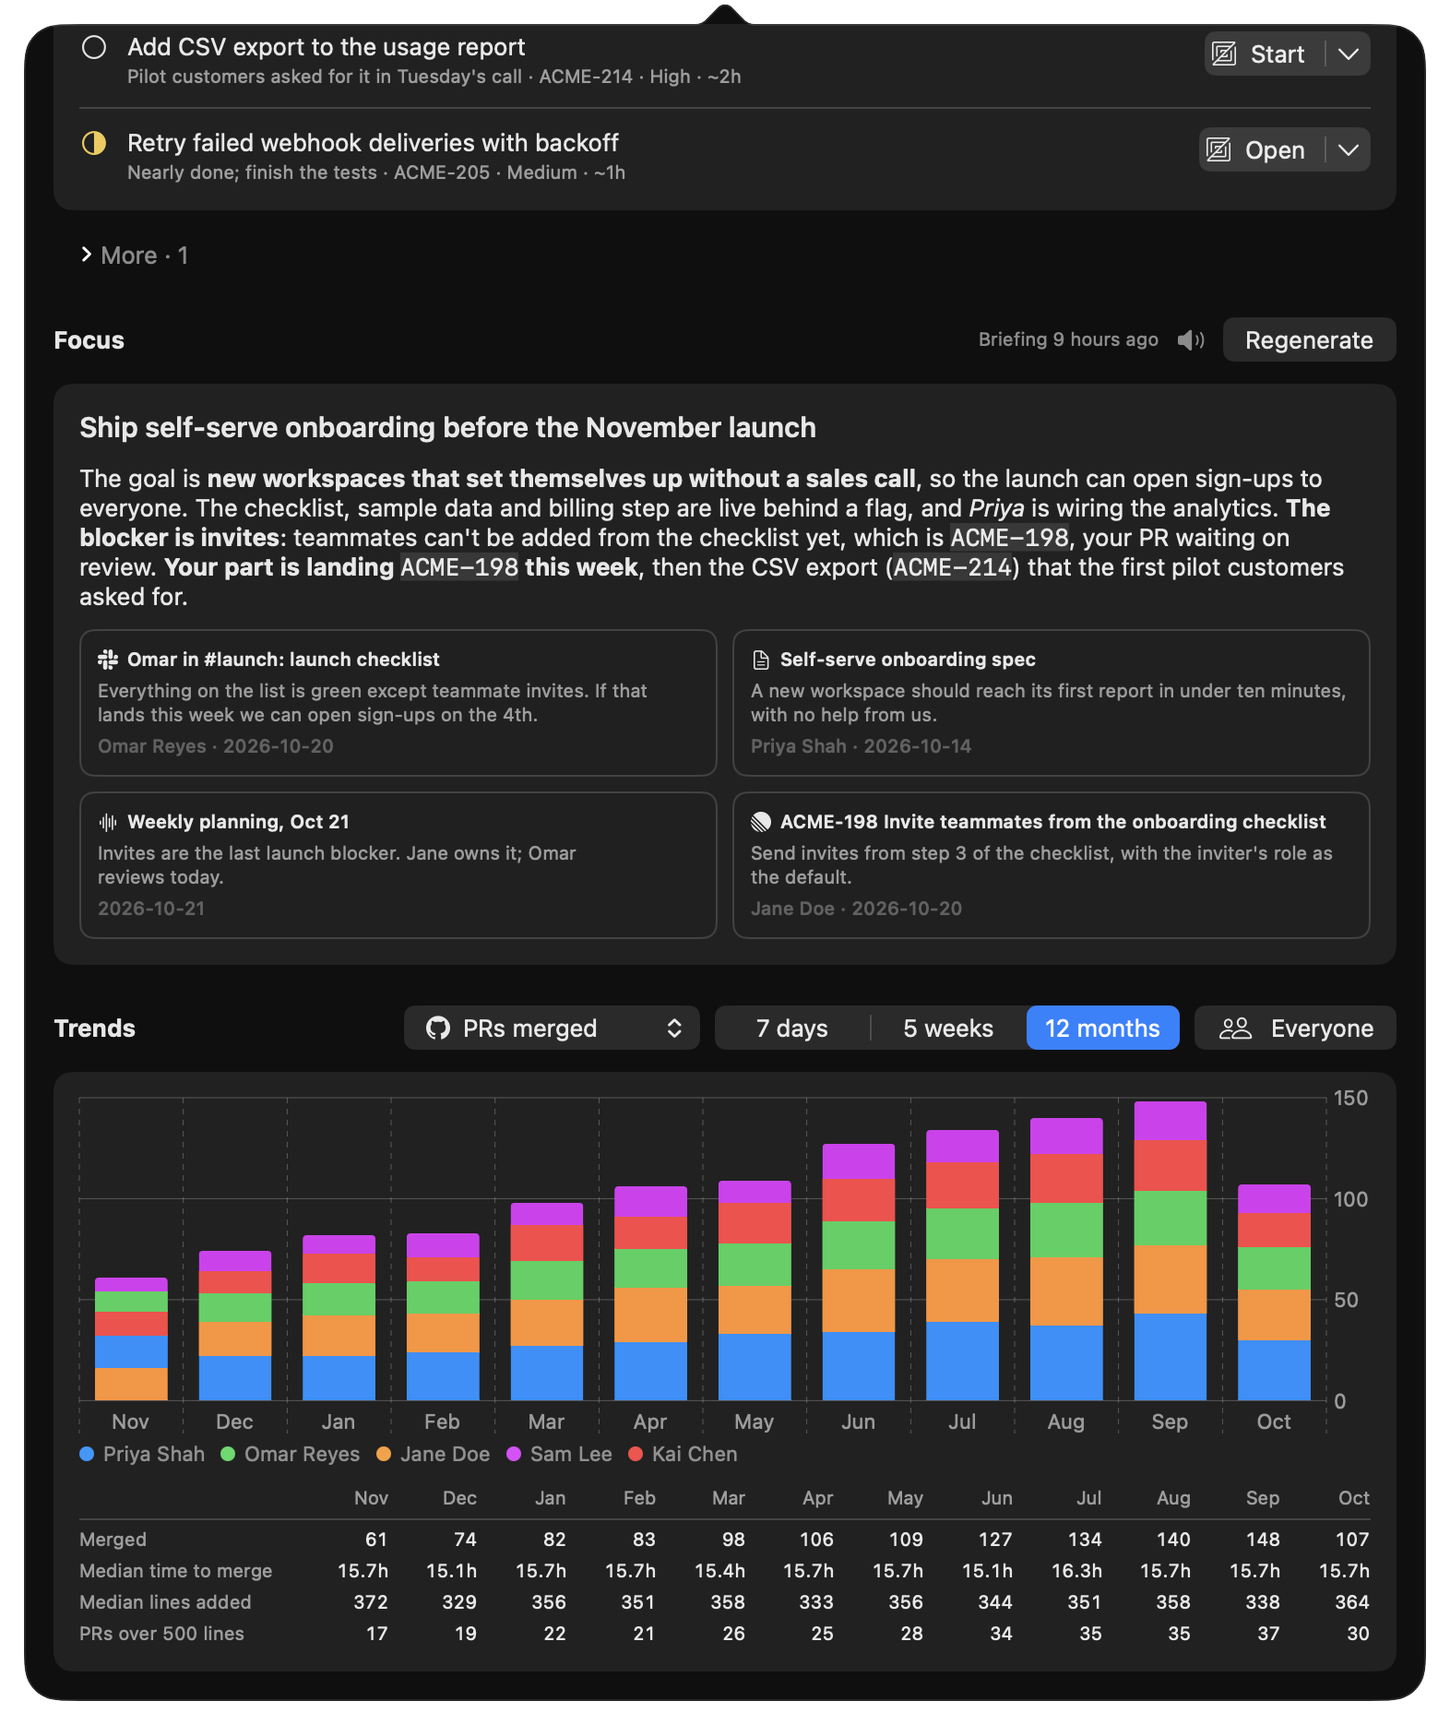
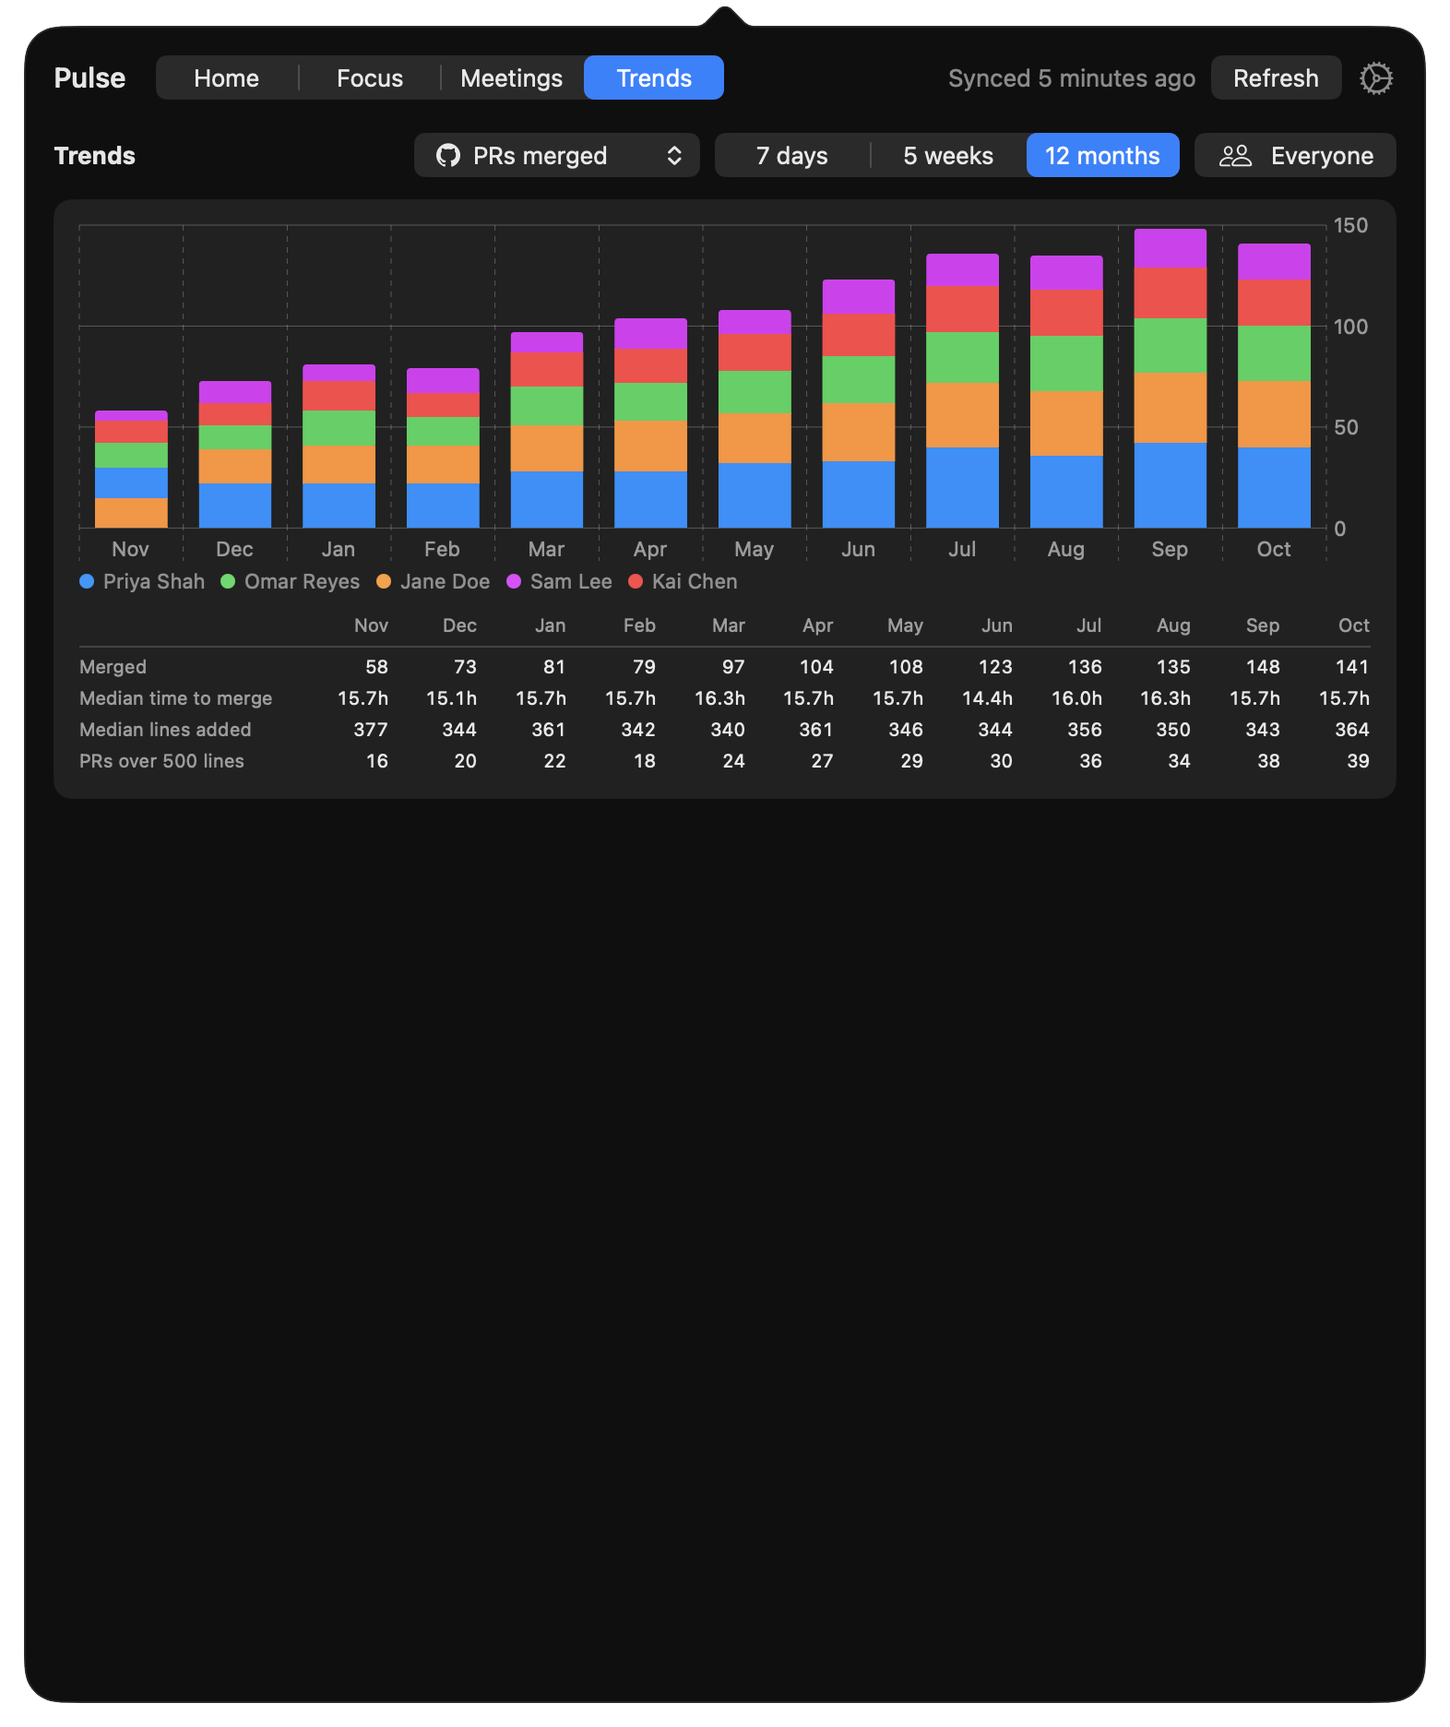
Split the main view into tabs with a Home dashboard (#60)
The popover had grown into one long scroll: Today, Focus with source cards, every meeting, then Trends. It now has Home, Focus, Meetings and Trends tabs under a fixed header.

Home shows the Today checklist, the focus headlines with read-aloud and Regenerate, the latest meeting with Stop/Start recording, and a one-line trends summary for the selected range and people. Each section title on Home opens its tab. Errors from sync, the briefing and meetings show under the header on every tab. The Meetings tab is hidden when recording is off and nothing is saved, as the section was. The chosen tab is kept while Pulse runs, and the morning briefing switches back to Home.

Closes #58

diff --git a/Sources/Pulse/Views.swift b/Sources/Pulse/Views.swift
@@ -10,6 +10,7 @@ struct ContentView: View {
     @ObservedObject private var voice = NaturalVoice.shared
     @State private var askVoice = false
     @ObservedObject private var updater = Updater.shared
+    @ObservedObject private var meetings = Meetings.shared
 
     var body: some View {
         Group {
@@ -24,77 +25,109 @@ struct ContentView: View {
     }
 
     private var main: some View {
-        ScrollView {
-            VStack(alignment: .leading, spacing: 12) {
-                header
-                if let error = store.lastError {
-                    Text(error).font(.caption).foregroundStyle(.red).textSelection(.enabled)
-                }
-                TodayView(store: store)
-                SectionHeader(title: "Focus") {
-                    if store.synthesizing {
-                        ProgressView().controlSize(.small)
-                        Text("Reading your sources…").font(.caption).foregroundStyle(.secondary)
-                    } else if let at = store.synthesizedAt {
-                        Text("Briefing \(at, format: .relative(presentation: .named))").font(.caption).foregroundStyle(.secondary)
-                    }
-                    if let focus = store.synthesis?.focus, !focus.isEmpty {
-                        let text = focus.map { "\($0.headline). \($0.summary)" }.joined(separator: "\n\n")
-                        if voice.state == .downloading && !voice.settingUp {
-                            HStack(spacing: 6) {
-                                ProgressView(value: voice.progress).progressViewStyle(.circular).controlSize(.small)
-                                Text("Downloading voice \(Int(voice.progress * 100))%").font(.caption).foregroundStyle(.secondary)
-                            }
-                        } else if voice.settingUp {
-                            HStack(spacing: 6) {
-                                ProgressView().controlSize(.small)
-                                Text("Setting up voice…").font(.caption).foregroundStyle(.secondary)
-                            }
-                        } else if speaker.preparing {
-                            ProgressView().controlSize(.small).help("Preparing speech")
-                        } else {
-                            Button {
-                                if !settings.naturalVoice && !settings.voiceAsked && voice.supported && !speaker.speaking {
-                                    askVoice = true
-                                } else {
-                                    speaker.toggle(text)
-                                }
-                            } label: {
-                                Image(systemName: speaker.speaking ? "stop.fill" : "speaker.wave.2.fill").font(.system(size: 13)).foregroundStyle(.secondary)
-                            }
-                            .buttonStyle(.plain)
-                            .help(speaker.speaking ? "Stop reading" : "Read the focus aloud")
-                            .popover(isPresented: $askVoice, arrowEdge: .bottom) { voicePrompt(text) }
-                        }
-                    }
-                    Button(store.synthesis == nil ? "Generate" : "Regenerate") { Task { await store.synthesize() } }
-                        .disabled(store.synthesizing)
-                }
-                PrioritiesView(store: store)
-                MeetingsView()
-                SectionHeader(title: "Trends") {
-                    Picker("", selection: $metric) {
-                        ForEach(TrendMetric.allCases.filter { $0 == .prs || store.hasLinearKey }, id: \.self) { m in
-                            Label { Text(m.rawValue) } icon: { Image(nsImage: m.brand.padded(size: 13, trailing: 5)) }.tag(m)
-                        }
-                    }
-                    .labelsHidden()
-                    .fixedSize()
-                    Picker("", selection: $store.range) {
-                        ForEach(TrendRange.allCases, id: \.self) { Text($0.rawValue).tag($0) }
-                    }
-                    .pickerStyle(.segmented)
-                    .labelsHidden()
-                    .fixedSize()
-                    PeoplePicker(store: store)
-                }
-                trends
+        VStack(alignment: .leading, spacing: 8) {
+            header
+            ForEach(Array([store.lastError, store.synthesisError, meetings.error].compactMap { $0 }.enumerated()), id: \.offset) { _, error in
+                Text(error).font(.caption).foregroundStyle(.red).textSelection(.enabled).lineLimit(4).help(error).padding(.horizontal, 16)
             }
-            .padding(16)
+            ScrollView {
+                VStack(alignment: .leading, spacing: 12) {
+                    switch store.page {
+                    case .home: home
+                    case .focus:
+                        focusHeader()
+                        PrioritiesView(store: store)
+                    case .meetings: MeetingsView()
+                    case .trends: trends
+                    }
+                }
+                .padding(.horizontal, 16)
+                .padding(.bottom, 16)
+            }
+            .id(store.page)
+            .overlayScrollers()
+        }
+        .padding(.top, 16)
+        .onChange(of: meetings.shown) { _, shown in
+            if !shown, store.page == .meetings { store.page = .home }
+        }
+    }
+
+    @ViewBuilder private var home: some View {
+        TodayView(store: store)
+        focusHeader { store.page = .focus }
+        PrioritiesView(store: store, headlines: true)
+        MeetingsView(limit: 1) { store.page = .meetings }
+        SectionHeader(title: "Trends", open: { store.page = .trends }) {
+            Text("Last \(store.range.rawValue): \(trendsSummary)").font(.caption).foregroundStyle(.secondary)
+        }
+    }
+
+    private var trendsSummary: String {
+        let prs = store.trends.prs.filter { store.includes($0.person) }.count
+        let tickets = store.trends.completed.filter { store.includes($0.person) }.map(\.n).reduce(0, +)
+        return "\(prs) PRs merged" + (store.hasLinearKey ? ", \(tickets) tickets closed" : "")
+    }
+
+    private func focusHeader(open: (() -> Void)? = nil) -> some View {
+        SectionHeader(title: "Focus", open: open) {
+            if store.synthesizing {
+                ProgressView().controlSize(.small)
+                Text("Reading your sources…").font(.caption).foregroundStyle(.secondary)
+            } else if let at = store.synthesizedAt {
+                Text("Briefing \(at, format: .relative(presentation: .named))").font(.caption).foregroundStyle(.secondary)
+            }
+            if let focus = store.synthesis?.focus, !focus.isEmpty {
+                let text = focus.map { "\($0.headline). \($0.summary)" }.joined(separator: "\n\n")
+                if voice.state == .downloading && !voice.settingUp {
+                    HStack(spacing: 6) {
+                        ProgressView(value: voice.progress).progressViewStyle(.circular).controlSize(.small)
+                        Text("Downloading voice \(Int(voice.progress * 100))%").font(.caption).foregroundStyle(.secondary)
+                    }
+                } else if voice.settingUp {
+                    HStack(spacing: 6) {
+                        ProgressView().controlSize(.small)
+                        Text("Setting up voice…").font(.caption).foregroundStyle(.secondary)
+                    }
+                } else if speaker.preparing {
+                    ProgressView().controlSize(.small).help("Preparing speech")
+                } else {
+                    Button {
+                        if !settings.naturalVoice && !settings.voiceAsked && voice.supported && !speaker.speaking {
+                            askVoice = true
+                        } else {
+                            speaker.toggle(text)
+                        }
+                    } label: {
+                        Image(systemName: speaker.speaking ? "stop.fill" : "speaker.wave.2.fill").font(.system(size: 13)).foregroundStyle(.secondary)
+                    }
+                    .buttonStyle(.plain)
+                    .help(speaker.speaking ? "Stop reading" : "Read the focus aloud")
+                    .popover(isPresented: $askVoice, arrowEdge: .bottom) { voicePrompt(text) }
+                }
+            }
+            Button(store.synthesis == nil ? "Generate" : "Regenerate") { Task { await store.synthesize() } }
+                .disabled(store.synthesizing)
         }
     }
 
     @ViewBuilder private var trends: some View {
+        SectionHeader(title: "Trends") {
+            Picker("", selection: $metric) {
+                ForEach(TrendMetric.allCases.filter { $0 == .prs || store.hasLinearKey }, id: \.self) { m in
+                    Label { Text(m.rawValue) } icon: { Image(nsImage: m.brand.padded(size: 13, trailing: 5)) }.tag(m)
+                }
+            }
+            .labelsHidden()
+            .fixedSize()
+            Picker("", selection: $store.range) {
+                ForEach(TrendRange.allCases, id: \.self) { Text($0.rawValue).tag($0) }
+            }
+            .pickerStyle(.segmented)
+            .labelsHidden()
+            .fixedSize()
+            PeoplePicker(store: store)
+        }
         VStack(alignment: .leading, spacing: 10) {
             switch metric {
             case .prs:
@@ -150,6 +183,13 @@ struct ContentView: View {
     private var header: some View {
         HStack {
             Text("Pulse").font(.title3.bold())
+            Picker("", selection: $store.page) {
+                ForEach(PulseTab.allCases.filter { $0 != .meetings || meetings.shown }, id: \.self) { Text($0.rawValue).tag($0) }
+            }
+            .pickerStyle(.segmented)
+            .labelsHidden()
+            .fixedSize()
+            .padding(.leading, 8)
             Spacer()
             if store.syncing {
                 ProgressView().controlSize(.small)
@@ -172,7 +212,12 @@ struct ContentView: View {
             .buttonStyle(.plain)
             .help("Settings")
         }
+        .padding(.horizontal, 16)
     }
+}
+
+enum PulseTab: String, CaseIterable {
+    case home = "Home", focus = "Focus", meetings = "Meetings", trends = "Trends"
 }
 
 enum TrendMetric: String, CaseIterable {
@@ -183,11 +228,23 @@ enum TrendMetric: String, CaseIterable {
 
 struct SectionHeader<Accessory: View>: View {
     let title: String
+    var open: (() -> Void)?
     @ViewBuilder var accessory: Accessory
 
     var body: some View {
         HStack(spacing: 8) {
-            Text(title).font(.headline)
+            if let open {
+                Button(action: open) {
+                    HStack(spacing: 4) {
+                        Text(title).font(.headline)
+                        Image(systemName: "chevron.right").font(.caption.weight(.semibold)).foregroundStyle(.secondary)
+                    }
+                }
+                .buttonStyle(.plain)
+                .help("Open \(title)")
+            } else {
+                Text(title).font(.headline)
+            }
             Spacer()
             accessory
         }

diff --git a/Sources/Pulse/Priorities.swift b/Sources/Pulse/Priorities.swift
@@ -2,22 +2,22 @@ import SwiftUI
 
 struct PrioritiesView: View {
     @ObservedObject var store: Store
+    var headlines = false
 
     var body: some View {
-        if let error = store.synthesisError {
-            Text(error).font(.caption).foregroundStyle(.red).textSelection(.enabled).lineLimit(12)
-        }
         if let s = store.synthesis {
             ForEach(Array(s.focus.enumerated()), id: \.offset) { _, f in
                 VStack(alignment: .leading, spacing: 10) {
                     Text(markdown(f.headline)).font(.title3.weight(.semibold))
-                    Text(markdown(f.summary)).textSelection(.enabled).fixedSize(horizontal: false, vertical: true)
-                    let cards = f.sources.compactMap { id in s.sources.first { $0.id == id } }
-                    Grid(alignment: .topLeading, horizontalSpacing: 8, verticalSpacing: 8) {
-                        ForEach(Array(stride(from: 0, to: cards.count, by: 2)), id: \.self) { i in
-                            GridRow {
-                                SourceCard(source: cards[i])
-                                if i + 1 < cards.count { SourceCard(source: cards[i + 1]) } else { Color.clear.gridCellUnsizedAxes([.horizontal, .vertical]) }
+                    if !headlines {
+                        Text(markdown(f.summary)).textSelection(.enabled).fixedSize(horizontal: false, vertical: true)
+                        let cards = f.sources.compactMap { id in s.sources.first { $0.id == id } }
+                        Grid(alignment: .topLeading, horizontalSpacing: 8, verticalSpacing: 8) {
+                            ForEach(Array(stride(from: 0, to: cards.count, by: 2)), id: \.self) { i in
+                                GridRow {
+                                    SourceCard(source: cards[i])
+                                    if i + 1 < cards.count { SourceCard(source: cards[i + 1]) } else { Color.clear.gridCellUnsizedAxes([.horizontal, .vertical]) }
+                                }
                             }
                         }
                     }

diff --git a/Sources/Pulse/MeetingsView.swift b/Sources/Pulse/MeetingsView.swift
@@ -2,10 +2,12 @@ import SwiftUI
 
 struct MeetingsView: View {
     @ObservedObject private var meetings = Meetings.shared
+    var limit = Int.max
+    var open: (() -> Void)?
 
     var body: some View {
-        if settings.recordMeetings || !meetings.saved.isEmpty {
-            SectionHeader(title: "Meetings") {
+        if meetings.shown {
+            SectionHeader(title: "Meetings", open: open) {
                 if let recording = meetings.recording {
                     if meetings.noAudio {
                         Label("Recording \(recording.title), but some audio isn't coming in", systemImage: "exclamationmark.triangle.fill").font(.caption).foregroundStyle(.orange)
@@ -24,11 +26,10 @@ struct MeetingsView: View {
                     }
                 }
             }
-            if let error = meetings.error { Text(error).font(.caption).foregroundStyle(.red) }
             if meetings.saved.isEmpty {
                 Panel(title: "Meetings") { Text("No recorded meetings yet.").foregroundStyle(.secondary) }
             }
-            let days = Dictionary(grouping: meetings.saved) { Calendar.current.startOfDay(for: $0.start) }
+            let days = Dictionary(grouping: meetings.saved.prefix(limit)) { Calendar.current.startOfDay(for: $0.start) }
             ForEach(days.keys.sorted(by: >), id: \.self) { day in
                 Text(dayLabel(day)).font(.subheadline.weight(.semibold)).foregroundStyle(.secondary)
                 ForEach(days[day]!) { MeetingCard(meeting: $0) }

diff --git a/Sources/Pulse/Store.swift b/Sources/Pulse/Store.swift
@@ -12,6 +12,7 @@ final class Store: ObservableObject {
     @Published var me: String?
     @Published var today: [ActionItem] = []
     @Published var showingSettings = false
+    @Published var page = PulseTab.home
     private var todayFetched = Date.distantPast
     @Published var synthesis: Synthesis?
     @Published var synthesizedAt: Date?
@@ -280,7 +281,10 @@ final class Store: ObservableObject {
             while true {
                 await refresh()
                 Updater.shared.checkIfDue()
-                if synthesisDue { await synthesize() }
+                if synthesisDue {
+                    await synthesize()
+                    if synthesisError == nil { page = .home }
+                }
                 try? await Task.sleep(for: .seconds(3600))
             }
         }

diff --git a/Sources/Pulse/Meetings.swift b/Sources/Pulse/Meetings.swift
@@ -27,6 +27,7 @@ final class Meetings: ObservableObject {
     @Published private(set) var noAudio = false
     @Published private(set) var saved: [SavedMeeting] = []
     @Published var error: String?
+    var shown: Bool { settings.recordMeetings || !saved.isEmpty }
     private var capture: Capture?
     private var quietPolls = 0
     private var dismissed = false

diff --git a/README.md b/README.md
@@ -2,14 +2,16 @@
 
 A macOS menu-bar app that tells you what to work on today, what your team is focused on, and how shipping is trending. Pulse pulls together GitHub, Linear, Slack, Mail and the meetings it records for you.
 
+Pulse opens on **Home**: today's checklist, the focus headlines, the latest meeting and a trends summary, with Focus, Meetings and Trends each on their own tab.
+
 - **Today**: a short checklist planned each morning to fit about 5 hours, covering reviews to unblock, replies you owe, and the tickets that matter most. Linear tickets show their real status, which you can change from the list. **Start** creates a git worktree on the ticket's branch, moves the ticket to In Progress, and opens it in your IDE's agent panel (Zed, Cursor, VS Code) or in a terminal agent (pi, Claude Code, or your own).
 - **Focus**: one distilled summary of what the team is pushing on, with source cards and a button that reads it aloud.
 - **Meetings**: Pulse notices Google Meet calls, Slack huddles and calendar meetings, records them, transcribes them on your Mac, and saves a summary with the decisions and important points. The briefing reads them.
 - **Trends**: PRs merged and Linear tickets closed per person, over 7 days, 5 weeks or 12 months.
 
 <p align="center">
-  <img src="docs/screenshot-today.png" alt="Today's checklist with start and open buttons, and the team focus" width="49%">
-  <img src="docs/screenshot-trends.png" alt="The focus source cards and the PRs merged trend, stacked by teammate" width="49%">
+  <img src="docs/screenshot-today.png" alt="The Home tab: today's checklist, the focus headlines, meetings and a trends summary" width="49%">
+  <img src="docs/screenshot-trends.png" alt="The Trends tab: PRs merged per month, stacked by teammate" width="49%">
 </p>
 
 Everything runs on your Mac. Pulse has no server and sends no telemetry. Your data goes only to the services you connect and to the AI agent you choose for the briefing and meeting summaries.
